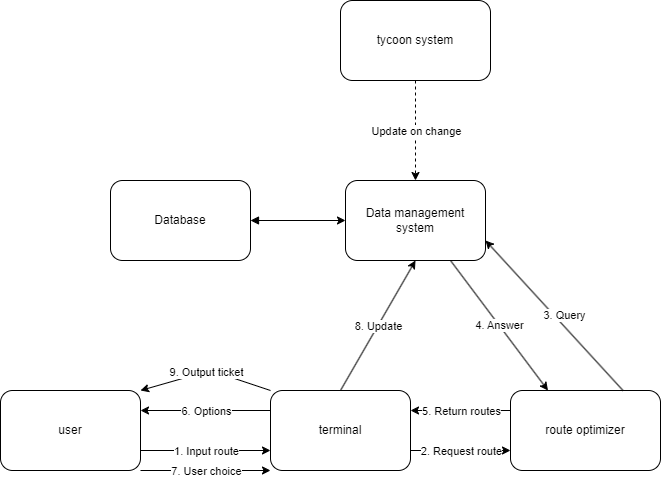
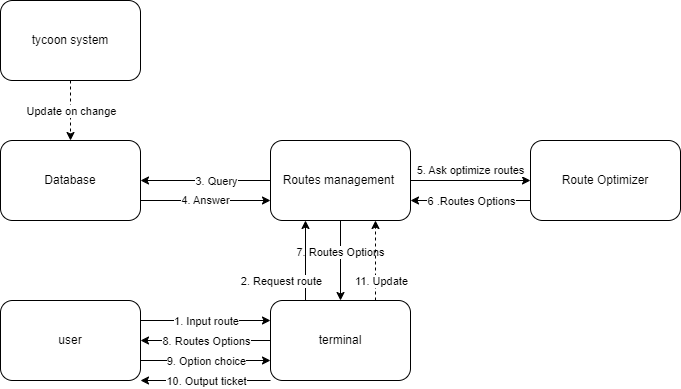
Adding drawing for decision4, made drawing for decision3 look better, added info for decisions1-4

diff --git a/decisions/decision4.tex b/decisions/decision4.tex
@@ -1,19 +1,32 @@
-\subsection{Decision 4: Subscription management}
+\subsection{Decision 4: Account and Subscriptions management}
 
 \subsection*{Status}
-Open
+Accepted.
 
 \subsection*{Architectural Summary}
-In developing the TrIP system, we explore subscription model architectures that align railway tycoons' need for flexibility with passengers' demand for simplicity. 
-We assess the trade-offs between unified and tycoon-specific models to enhance both operational autonomy and passenger convenience.
+
 
 \subsection*{Concern}
-A user wants to know the available tickets from A-B. 
-Connected user stories: 16 (passenger want one payment for many trains), 23 (tycoon wants easy integration with their system)
+A user wants to traver around the network using its subscription(s) instead of always having to buy a single fare.
+Tycoons have explicitely requested to maintain their own subscriptions separated.
+The following user stories are tied to this decision:
+\begin{itemize}
+    \item \textbf{User Story 16}: 16. As a passenger, I want to be able to purchase a single ticket that allows me to travel across all train networks so that I can travel seamlessly without needing to buy separate tickets for each tycoon's network.
+    \item \textbf{User Story 23}: As a tycoon, I want the payment system to integrate with my existing infrastructure with minimal disruption so that I can maintain high service levels during the transition..
+\end{itemize}
+
+Specific concerns identified for the system include the following:
+\begin{itemize}
+    \item A passenger should be able to have different subscriptions for the three tycoons.
+    \item Each of the three tycoon wants to have its own subscription fee system.
+\end{itemize}
 
 \subsection*{Context}
+In developing the TrIP system, we explore subscription model architectures that align railway tycoons' need for flexibility with passengers' demand for simplicity. 
+We assess the trade-offs between unified and tycoon-specific models to enhance both operational autonomy and passenger convenience.
 When passengers want to go from station A to station B, they want to be able to use all the subscription they have and pay for the trains belonging to tycoons they are not subsribed to.
 The terminal has to communicate with the tycoon systems to verify subscriptions and check routes.
+Alternatively, if passengers have active subscriptions to a tycoon, they should be allowed onboard the train without a ticket. 
 
 \subsection*{Criteria}
 \begin{itemize}
@@ -23,14 +36,34 @@ The terminal has to communicate with the tycoon systems to verify subscriptions 
 \item Simple integration with the tycoon systems.
 \end{itemize}
 
-\subsection*{Option 1: Introduction of a subscription manager tool, route optimizer needs to take subs into consideration.}
+\subsection*{Option 1: Introduction of a subscription manager tool, route management needs to take subs into consideration.}
 We want to include a Subscription Manager module to our functional view. 
 Such a module has the responsibility to verify subscriptions, communicating with the tycoon system.
-Furthermore, the Route Optimizer module needs to be able to optimize wrt price given that the passenger holds some subscription.
-The idea is to add an optional initial iteration to the sequence of actions sketched in decision3.
+It should also allow users to create their own TRIP account and tie it to subscriptions.
+Since we need scalability, we consider using a TRIP account that is tied to one or many subscriptions, and let the user add new or automatically renew the existing ones.
+This means that we need an authentication means, like a magnetic card, or a phone app linked to NFC scanning or other alternatives.
+This will be the topic of a future decision.
+Furthermore, the Route management module needs to be able to optimize with respect to price, given that the passenger holds some subscription.
+The idea is to add an optional initial iteration to the sequence of actions sketched in decision 3.
 This requires a way to communicate the subscription to the terminal, be it a QR code, a code or a magnetic card. 
 This should be the topic of another decision.
 
+\subsection*{Pros}
+
+\begin{itemize}[noitemsep]
+    \item \textbf{Modular Architecture:} The separation of subscription management and route optimization into distinct modules enhances the system's modularity, making it easier to maintain, update, or replace parts of the system without affecting others.
+    \item \textbf{Scalability:} Designed with scalability in mind, allowing for easy addition and management of new subscriptions or renewal of existing ones, which can accommodate growing user demands and evolving business requirements.
+    \item \textbf{Reduced Risk of System-wide Failures:} By distributing functionalities across different systems or modules, the impact of a failure in one component is limited, reducing the risk of system-wide outages and improving overall system reliability.
+    \item \textbf{Flexibility in User Authentication:} Supports various means of user authentication (e.g., magnetic card, smartphone app), offering flexibility and convenience for users to access their subscriptions and travel seamlessly.
+\end{itemize}
+
+\subsection*{Cons}
+
+\begin{itemize}[noitemsep]
+    \item \textbf{Increased System Interactions:} The decoupled nature of the system requires more interactions between separate modules (e.g., subscription verification and route optimization), which can increase the complexity of integration and potentially lead to higher latency in response times.
+    \item \textbf{Integration Complexity:} Ensuring seamless communication and data consistency between different modules can introduce additional complexity in system integration and require more sophisticated coordination mechanisms.
+    \item \textbf{Higher Overhead:} Managing separate systems for subscription and route optimization may lead to higher operational overhead in terms of both system resources and administrative efforts to maintain multiple components.
+\end{itemize}
 % The functional view schema is in my bag. TODO
 
 \subsection*{Option 2: Integrated Subscription-Route Optimization Service}
@@ -47,11 +80,25 @@ The Integrated Subscription-Route Optimization Service (IS-ROS) combines the fun
 \end{itemize}
 
 \subsection*{Decision}
-% TODO: SoC (separation of concerns) => option1. 
+We decided to pick Option 1. The increased concern for scalability, caused by event 1, points clearly to the listed pros of this option. Furthermore, the focus on modularity
+gives us easy maintenability, which is important for the TRIP owner.
+Performance in this case doesn't seem to be that central, as optimization of routes should be precomputed and cached, given that timetables should not change often and that subscription have relatively long lasting periods.
+With our option, we still have the flexibility to assign more computational or data access resources to the module who needs them the most.
+
 \subsection*{Consequences}
-% \textbf{Positive Consequences:}
-% \begin{itemize}
-% \end{itemize}
-% \textbf{Negative Consequences:}
-% \begin{itemize}
-% \end{itemize}
+\subsection*{Positive Consequences}
+
+\begin{itemize}[noitemsep]
+    \item \textbf{Enhanced Scalability:} Modular design facilitates easy scaling and integration of new features.
+    \item \textbf{Improved Maintainability:} Simplifies updates and troubleshooting, allowing for technology-specific optimizations within each module.
+    \item \textbf{Reduced System-wide Failure Risk:} Isolates failures to individual modules, enhancing overall system reliability.
+\end{itemize}
+
+\subsection*{Negative Consequences}
+
+\begin{itemize}[noitemsep]
+    \item \textbf{Increased System Complexity:} Necessitates sophisticated coordination and integration, potentially introducing latency.
+    \item \textbf{Higher Initial Costs:} Development and maintenance of separate modules may lead to higher initial and operational costs.
+    \item \textbf{Data Consistency Challenges:} Requires robust synchronization mechanisms to ensure data consistency across modules.
+\end{itemize}
+

diff --git a/decisions/decision3.tex b/decisions/decision3.tex
@@ -4,12 +4,13 @@
 Accepted.
 
 \subsection*{Architectural Summary}
-In the context of enhancing the TrIP system's ability to provide optimized travel options, we face the challenge of efficiently querying multiple tycoon systems to gather route information that aligns with passenger preferences and existing subscriptions.
+% TODO
 
 \subsection*{Concern}
 The concern is to facilitate a seamless travel planning experience for passengers by ensuring the system can accurately and efficiently gather available route options from various tycoon systems and present them based on the user's criteria of price, time, and subscription status.
 
 \subsection*{Context}
+In the context of enhancing the TrIP system's ability to provide optimized travel options, we face the challenge of efficiently querying multiple tycoon systems to gather route information that aligns with passenger preferences and existing subscriptions.
 The decision is centered on the system's interface with tycoon systems to retrieve and optimize route data, which impacts the functionality and performance of the terminal's route planning features for the passengers.
 
 \subsection*{Criteria}
@@ -22,7 +23,7 @@ The key criteria for the decision include:
 \end{itemize}
 
 \subsection*{Option 1: Direct Tycoon Integration}
-Terminals directly interface with each tycoon system and the central database to collate route options. The route optimizer processes this data to present optimal travel solutions.
+Terminals directly interface with each tycoon system and the central database to collate route options. The route optimizer processes this data to present optimal travel solutions. This requires our system to have APIs to query each of the tycoons systems.
 \begin{figure}[ht]
     \centering
     \includegraphics[width=0.5\textwidth]{drawings/decision3_drawings/direct.png}
@@ -30,17 +31,17 @@ Terminals directly interface with each tycoon system and the central database to
     \label{fig:direct-data-interface}
 \end{figure}
 
-\subsection*{Option 2: Centralized Data Management Interface}
-A central data management module acts as an intermediary between terminals and tycoon systems, standardizing and aggregating data before it is processed by the route optimizer.
+\subsection*{Option 2: Centralized Route Management Module}
+A central route data management module acts as an intermediary between terminals and tycoon systems, standardizing and aggregating data before it is processed by the route optimizer. A database containing the timetables will be kept up to date by the tycoon (possibly though an API, this will be the focus of a later decision). The route data management system might cache optimized routes, in order to minimize database requests. A module specialized in running optimizations with the data it is provided with interacts solely with the Route Management Module.
 \begin{figure}[ht]
     \centering
     \includegraphics[width=0.5\textwidth]{drawings/decision3_drawings/centralized.png}
-    \caption{Centralized Data Management Interface}
+    \caption{Centralized Route Management Module. Dashed lines represents steps to be explained in future decisions.}
     \label{fig:centralized-data-interface}
 \end{figure}
   
 \subsection*{Decision}
-We have decided to proceed with Option 2: Centralized Data Management Interface. This decision is based on the module's ability to simplify the data flow between systems and to effectively manage the complexity of integrating with multiple tycoon systems. The introduction of a separate data management module will allow for greater flexibility and scalability.
+We have decided to proceed with Option 2: Centralized Route Management Module. This decision is based on the module's ability to simplify the data flow between systems and to effectively manage the complexity of integrating with multiple tycoon systems. The introduction of a separate data management module will allow for greater flexibility and scalability.
 
 \subsection*{Consequences}
 \textbf{Positive Consequences:}

diff --git a/decisions/decision2.tex b/decisions/decision2.tex
@@ -4,13 +4,15 @@
 Accepted.
 
 \subsection*{Architectural Summary}
-In developing the TrIP system, tasked with unifying the payment and subscription management across three railroad tycoons' operations, we are faced with the decision of choosing an appropriate database technology. This choice hinges on our need to ensure data integrity, support complex queries for transaction processing, and maintain scalability and security.
+% TODO
 
 \subsection*{Concern}
 The main concern lies in selecting a database that can efficiently manage complex data relationships, provide high transactional integrity, and scale as needed without compromising on performance or security.
 
 \subsection*{Context}
+In developing the TrIP system, tasked with unifying the payment and subscription management across three railroad tycoons' operations, we are faced with the decision of choosing an appropriate database technology. This choice hinges on our need to ensure data integrity, support complex queries for transaction processing, and maintain scalability and security.
 The database must handle a wide array of data, including user subscriptions, fare transactions, and station and route information, necessitating a robust system that supports complex queries and relational data structuring.
+The architecture might include more than one databases, depending on the needs that will arise during later decisions.
 
 \subsection*{Criteria}
 \begin{itemize}

diff --git a/decisions/decision1.tex b/decisions/decision1.tex
@@ -4,12 +4,13 @@
 Accepted.
 
 \subsection*{Architectural Summary}
-% In the context of designing an intuitive and engaging user interface for the TrIP system terminals, we face the challenge of selecting guiding principles and frameworks that will shape the user experience and interaction design.
+% TODO
 
 \subsection*{Concern}
 Passengers require a user interface that is easy to navigate, visually appealing, and provides a seamless experience across different tycoon systems.
 
 \subsection*{Context}
+In the context of designing an intuitive and engaging user interface for the TrIP system terminals, we face the challenge of selecting guiding principles and frameworks that will shape the user experience and interaction design.
 The design of the user interface on the terminals involves the passenger's interaction with the system, from querying routes to finalizing ticket purchases. It is an essential component of the system that directly affects user satisfaction and system usability.
 
 \subsection*{Criteria}

diff --git a/project.tex b/project.tex
@@ -43,14 +43,26 @@ The Train Inter Payment System (TrIP) is a collaborative project initiated by th
 \input{decisions/decision6.tex}
 \newpage
 \input{decisions/decision7.tex}
-\newpage
-\input{decisions/decision8.tex}
-\newpage
-\input{viewpoints/viewpoints.tex}
+% \newpage
+% \input{decisions/decision8.tex}
+% \newpage
+% \input{decisions/decision9.tex}
+% \newpage
+% \input{decisions/decision10.tex}
+% \newpage
+% \input{decisions/decision12.tex}
+% \newpage
+% \input{decisions/decision13.tex}
+% \newpage
+% \input{decisions/decision14.tex}
+% \newpage
+% \input{decisions/decision15.tex}
+% \newpage
+% \input{viewpoints/viewpoints.tex}
 
 \appendix
 
-\input{user_stories/user_stories.tex}
+% \input{user_stories/user_stories.tex}
 % \input{user_stories_table.tex}
 
 \end{document}
